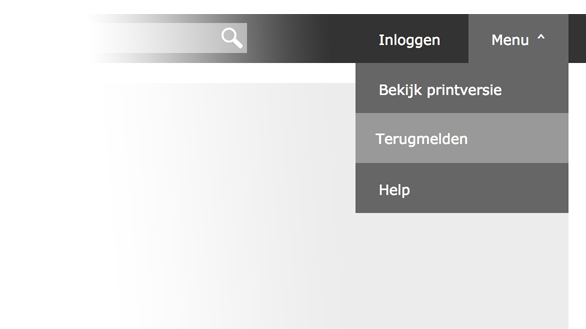
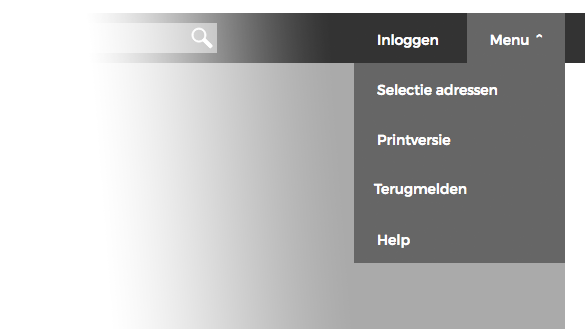
de wegwijs pagina aangevuld

diff --git a/modules/page/components/page/templates/snel-wegwijs.html b/modules/page/components/page/templates/snel-wegwijs.html
@@ -65,7 +65,9 @@
 <h2 class="o-header__subtitle u-margin__bottom--2-5">Menu</h2>
 <img class="c-snel-wegwijs__image" src="assets/images/menu.png" alt="Menu" title="Menu">
 <p class="u-margin__bottom--4">
-    De huidige pagina afdrukken of er een terugmelding over doen als een gegeven in Atlas niet blijkt te kloppen.
+    Adresbestand maken en downloaden (selecteren uit alle adressen in Amsterdam).<br>
+    Afdrukken (van huidige pagina).<br>
+    Terugmelding doen (over huidige pagina), als een gegeven in Atlas niet blijkt te kloppen.
 </p>
 
 <h2 class="o-header__subtitle u-margin__bottom--2-5">Schermafbeelding</h2>
